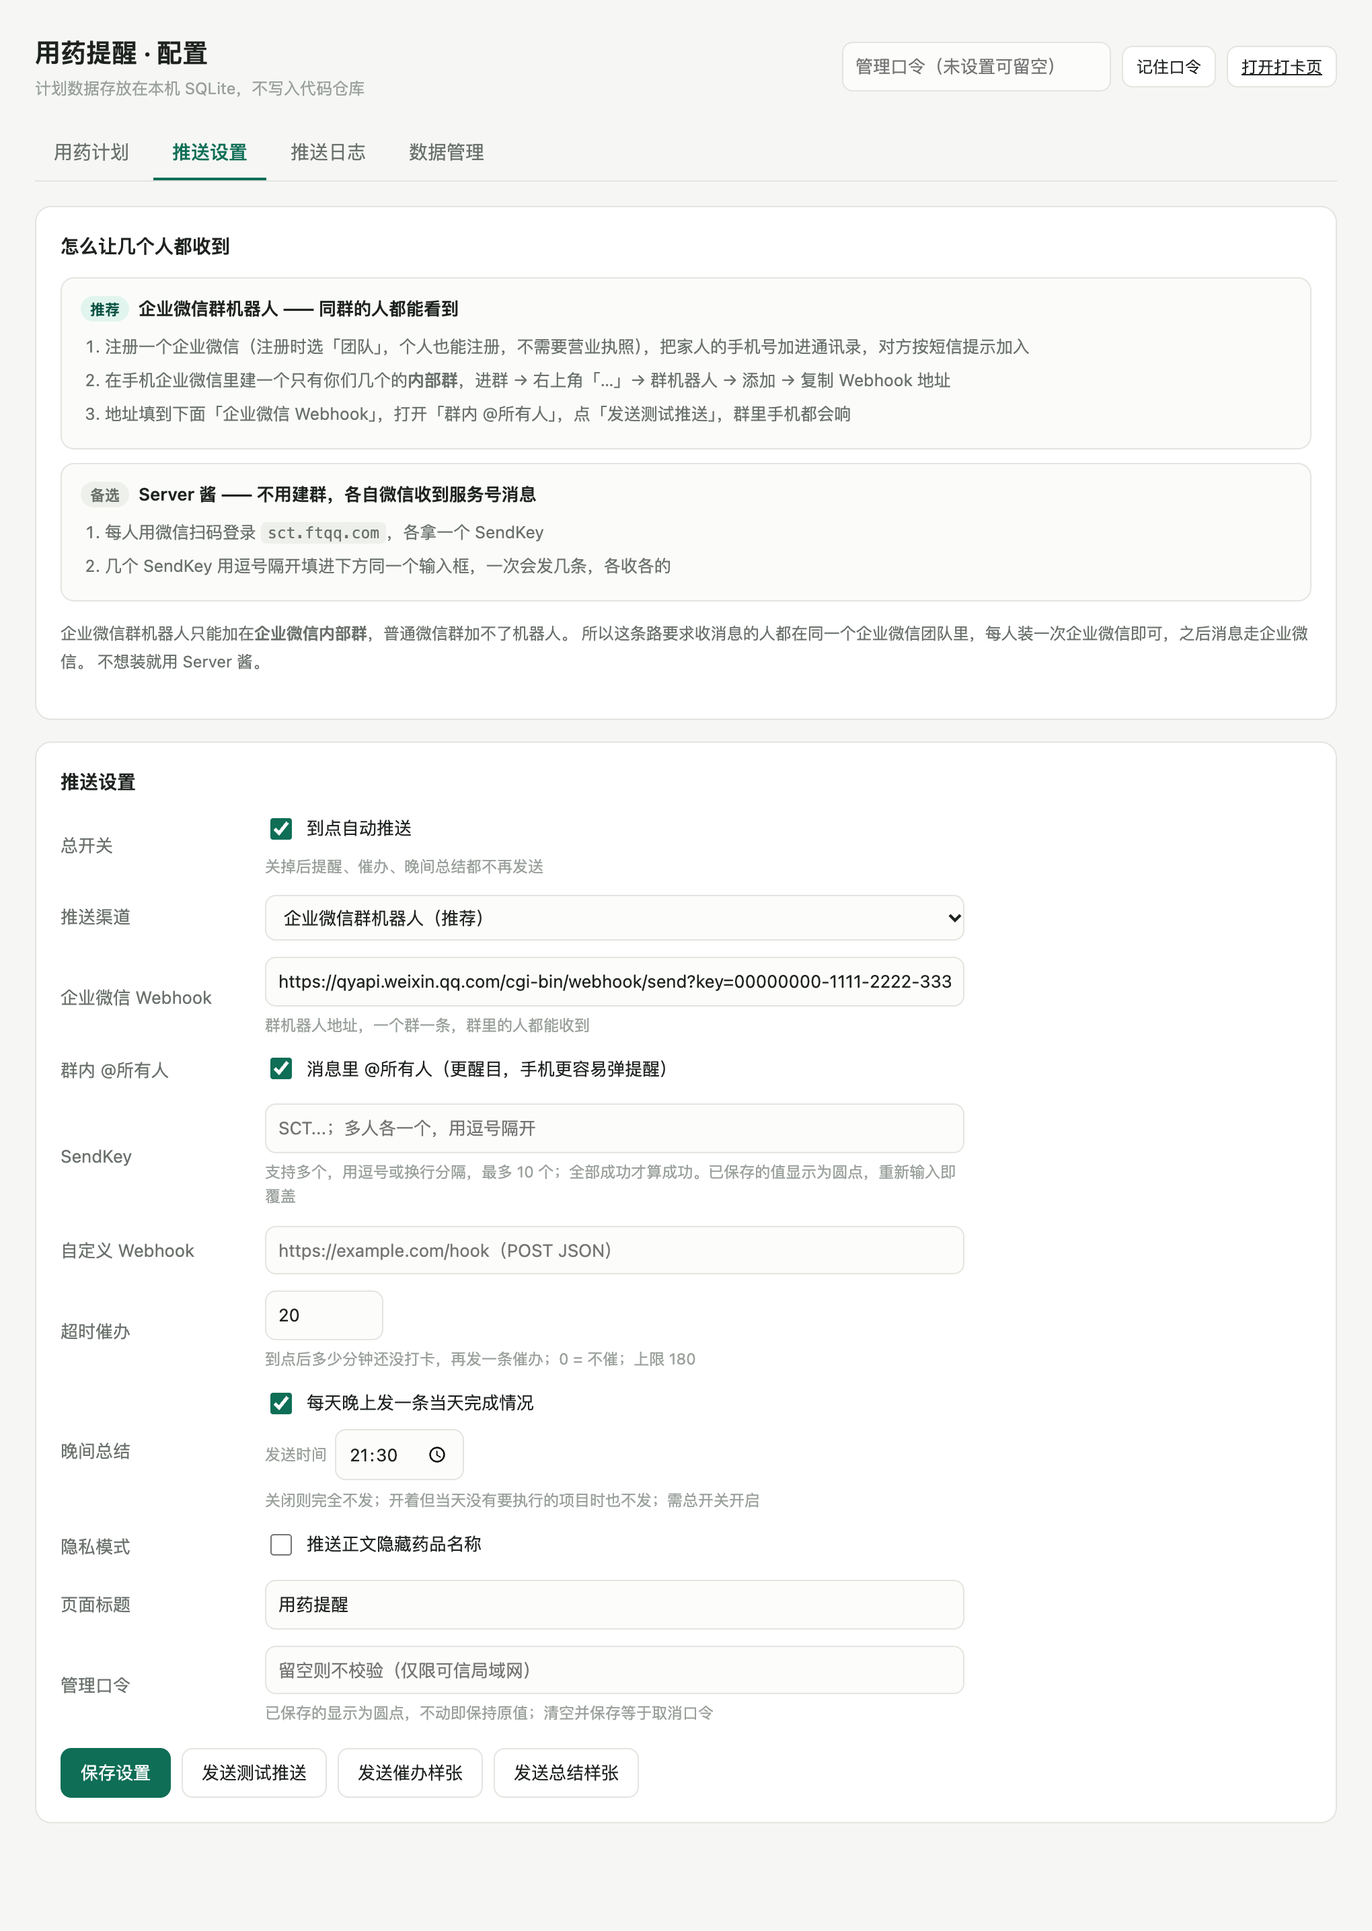
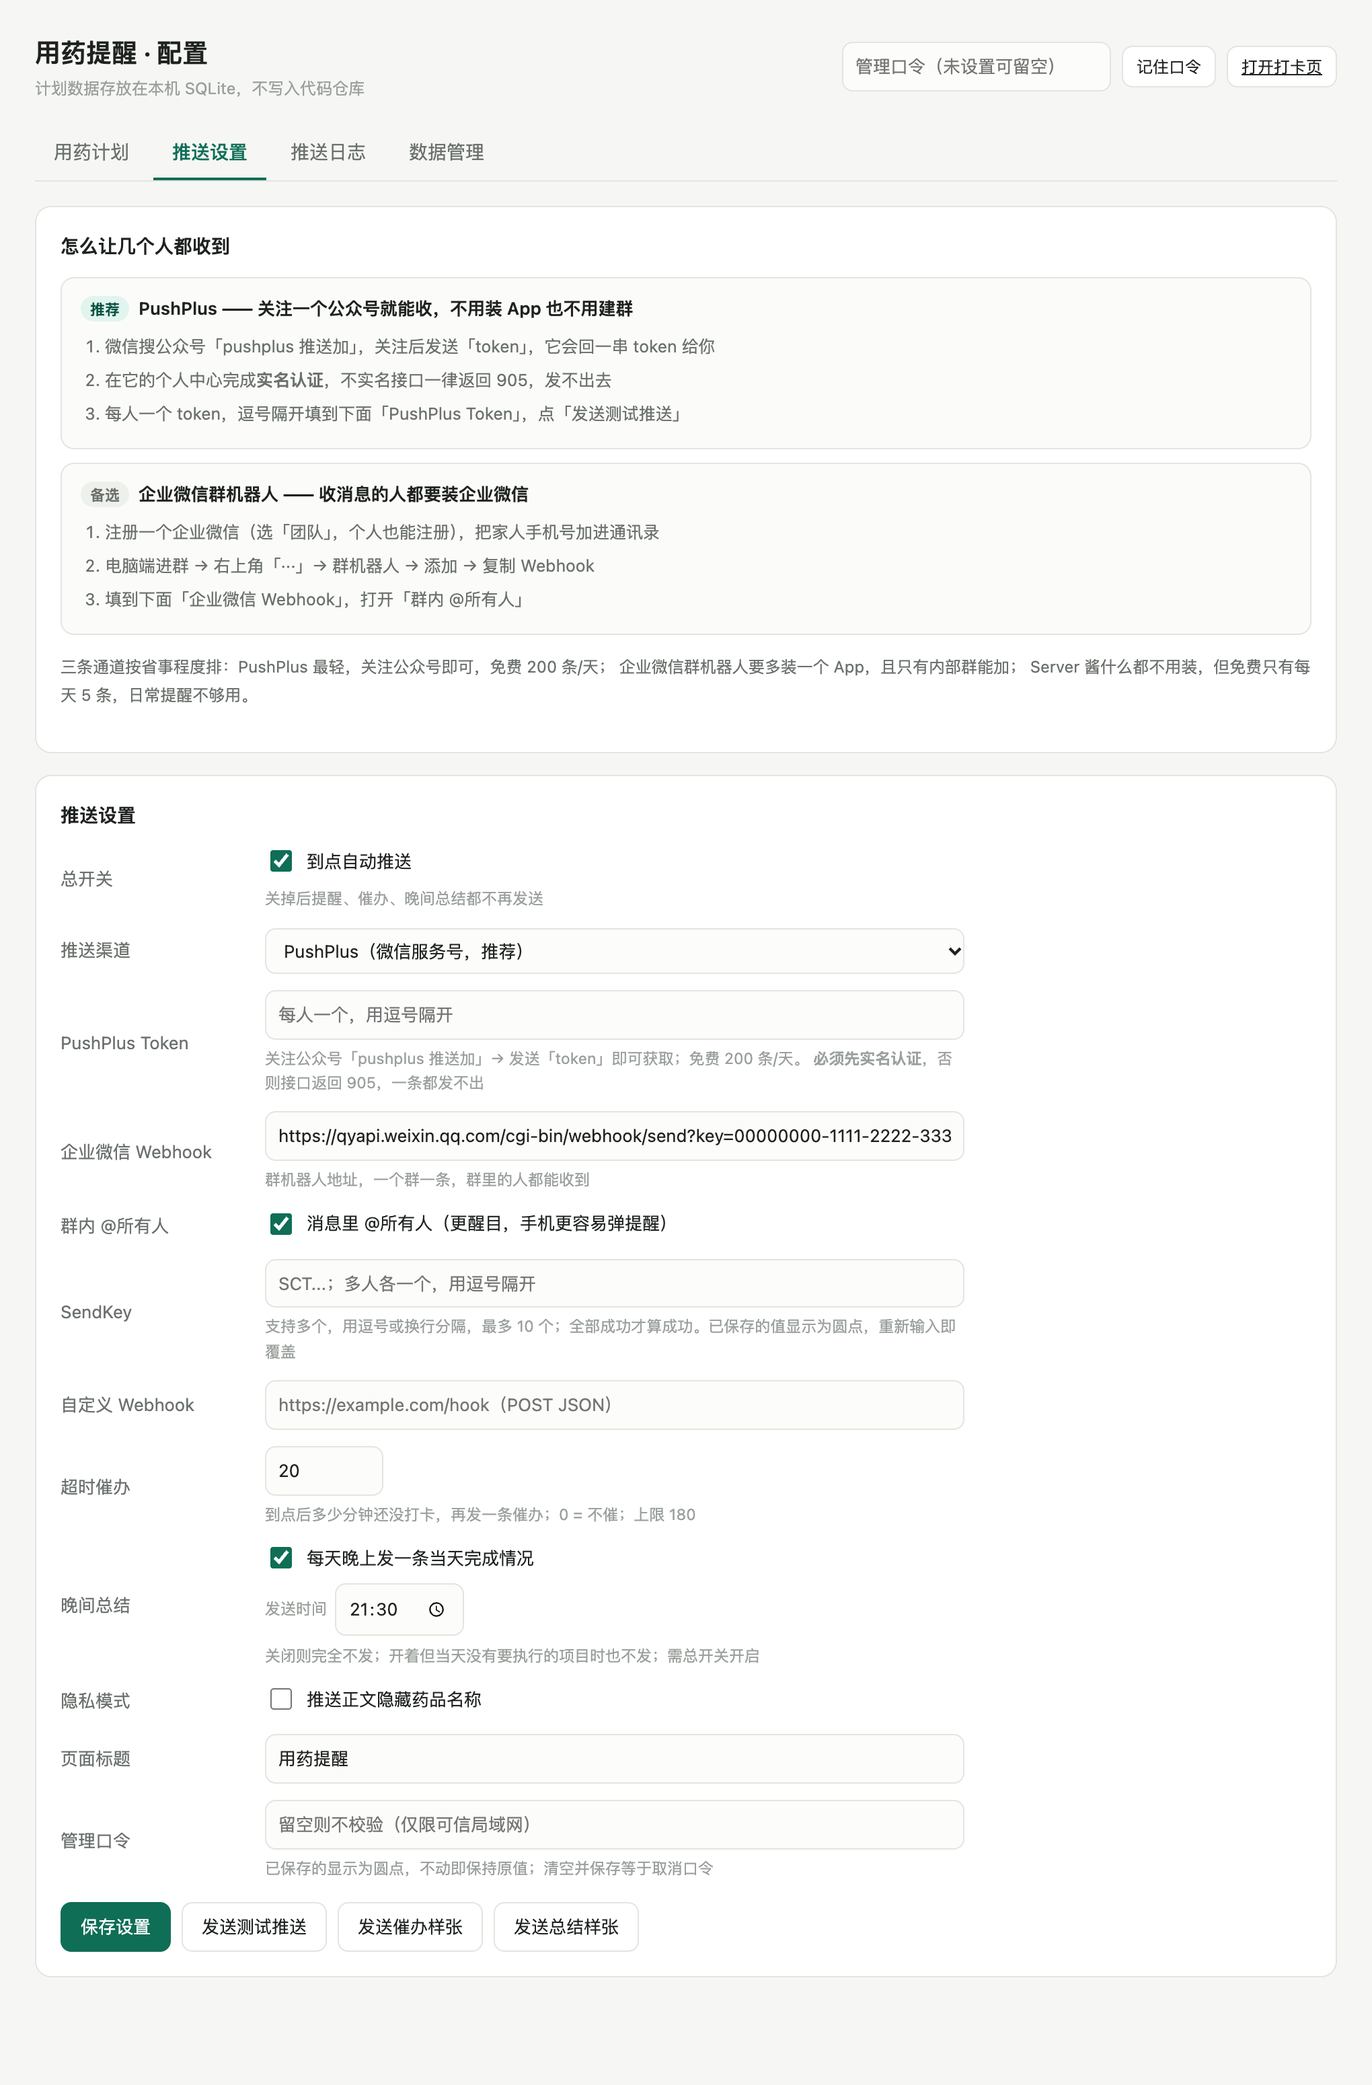
新增 PushPlus 渠道；推送文案去掉打不开的打卡页引导；用药计划改为整表保存

diff --git a/app/public/admin.html b/app/public/admin.html
@@ -34,12 +34,13 @@
       <p class="hint">
         一行对应一个时间点。时间格式 24 小时制 HH:MM；「星期」按钮点亮表示该天执行，全亮即每天。
         「启用」管是否执行与计分，「推送」管这条是否发微信——两项互不影响，勾掉推送后仍可在打卡页手动勾选。
-        修改后点该行的「保存」生效。
+        改完点表格右上方的「保存全部」一次提交。
       </p>
       <div style="display:flex;gap:8px;margin-bottom:12px;flex-wrap:wrap">
         <button class="btn btn-primary btn-sm" id="addRow">+ 新增一行</button>
         <button class="btn btn-sm" id="refreshPlans">刷新</button>
         <span style="flex:1"></span>
+        <button class="btn btn-primary btn-sm" id="saveAll">保存全部</button>
         <span class="badge" id="planCount">0 行</span>
       </div>
       <div class="table-scroll">
@@ -54,7 +55,7 @@
               <th style="width:160px">星期</th>
               <th style="width:44px">启用</th>
               <th style="width:44px" title="取消勾选后该条不发微信，只能手动来打卡">推送</th>
-              <th style="width:100px">操作</th>
+              <th style="width:72px">操作</th>
             </tr>
           </thead>
           <tbody id="planBody"></tbody>
@@ -69,25 +70,26 @@
       <h2>怎么让几个人都收到</h2>
       <div class="guide">
         <div class="guide-item">
-          <div class="guide-h"><span class="badge ok">推荐</span> 企业微信群机器人 —— 同群的人都能看到</div>
+          <div class="guide-h"><span class="badge ok">推荐</span> PushPlus —— 关注一个公众号就能收，不用装 App 也不用建群</div>
           <ol class="guide-ol">
-            <li>注册一个企业微信（注册时选「团队」，个人也能注册，不需要营业执照），把家人的手机号加进通讯录，对方按短信提示加入</li>
-            <li>在手机企业微信里建一个只有你们几个的<strong>内部群</strong>，进群 → 右上角「…」→ 群机器人 → 添加 → 复制 Webhook 地址</li>
-            <li>地址填到下面「企业微信 Webhook」，打开「群内 @所有人」，点「发送测试推送」，群里手机都会响</li>
+            <li>微信搜公众号「pushplus 推送加」，关注后发送「token」，它会回一串 token 给你</li>
+            <li>在它的个人中心完成<strong>实名认证</strong>，不实名接口一律返回 905，发不出去</li>
+            <li>每人一个 token，逗号隔开填到下面「PushPlus Token」，点「发送测试推送」</li>
           </ol>
         </div>
         <div class="guide-item">
-          <div class="guide-h"><span class="badge">备选</span> Server 酱 —— 不用建群，各自微信收到服务号消息</div>
+          <div class="guide-h"><span class="badge">备选</span> 企业微信群机器人 —— 收消息的人都要装企业微信</div>
           <ol class="guide-ol">
-            <li>每人用微信扫码登录 <code>sct.ftqq.com</code>，各拿一个 SendKey</li>
-            <li>几个 SendKey 用逗号隔开填进下方同一个输入框，一次会发几条，各收各的</li>
+            <li>注册一个企业微信（选「团队」，个人也能注册），把家人手机号加进通讯录</li>
+            <li>电脑端进群 → 右上角「···」→ 群机器人 → 添加 → 复制 Webhook</li>
+            <li>填到下面「企业微信 Webhook」，打开「群内 @所有人」</li>
           </ol>
         </div>
       </div>
       <p class="hint" style="margin-top:14px">
-        企业微信群机器人只能加在<strong>企业微信内部群</strong>，普通微信群加不了机器人。
-        所以这条路要求收消息的人都在同一个企业微信团队里，每人装一次企业微信即可，之后消息走企业微信。
-        不想装就用 Server 酱。
+        三条通道按省事程度排：PushPlus 最轻，关注公众号即可，免费 200 条/天；
+        企业微信群机器人要多装一个 App，且只有内部群能加；
+        Server 酱什么都不用装，但免费只有每天 5 条，日常提醒不够用。
       </p>
     </div>
 
@@ -104,10 +106,21 @@
         <label>推送渠道</label>
         <div class="wide">
           <select id="push_channel">
-            <option value="wecom">企业微信群机器人（推荐）</option>
+            <option value="pushplus">PushPlus（微信服务号，推荐）</option>
+            <option value="wecom">企业微信群机器人</option>
             <option value="serverchan">Server 酱（微信）</option>
             <option value="custom">自定义 Webhook</option>
           </select>
+        </div>
+      </div>
+      <div class="form-row">
+        <label>PushPlus Token</label>
+        <div class="wide">
+          <input type="password" id="pushplus_token" placeholder="每人一个，用逗号隔开" />
+          <div class="field-note">
+            关注公众号「pushplus 推送加」→ 发送「token」即可获取；免费 200 条/天。
+            <strong>必须先实名认证</strong>，否则接口返回 905，一条都发不出
+          </div>
         </div>
       </div>
       <div class="form-row">
@@ -332,11 +345,12 @@ function renderPlans() {
   if (!rows.length) {
     body.innerHTML = '<tr><td colspan="9" style="color:#9aa09b;padding:24px 6px;text-align:center">还没有计划，点「+ 新增一行」开始</td></tr>';
     $('planCount').textContent = '0 行';
+    updateSaveBtn();
     return;
   }
   $('planCount').textContent = rows.length + ' 行';
 
-  rows.forEach((row, idx) => {
+  rows.forEach((row) => {
     const tr = document.createElement('tr');
     if (!row.enabled) tr.className = 'off';
     tr.innerHTML = `
@@ -350,7 +364,6 @@ function renderPlans() {
       <td style="text-align:center"><input type="checkbox" data-f="push_on" ${row.push_on ? 'checked' : ''} style="width:16px;height:16px;accent-color:#0f6e56" /></td>
       <td>
         <div class="row-actions">
-          <button class="btn btn-sm" data-act="save">保存</button>
           <button class="btn btn-sm btn-danger" data-act="del">删除</button>
         </div>
       </td>`;
@@ -361,41 +374,28 @@ function renderPlans() {
       const bit = 1 << Number(btn.dataset.bit);
       row.weekdays = row.weekdays & bit ? row.weekdays & ~bit : row.weekdays | bit;
       btn.classList.toggle('on', !!(row.weekdays & bit));
+      markDirty(row);
     });
 
     const inputs = tr.querySelectorAll('[data-f]');
     inputs.forEach((inp) => {
       const ev = inp.type === 'checkbox' ? 'change' : 'input';
-      inp.addEventListener(ev, async () => {
+      inp.addEventListener(ev, () => {
         const f = inp.dataset.f;
         if (f === 'enabled' || f === 'push_on') {
           row[f] = inp.checked ? 1 : 0;
           if (f === 'enabled') tr.classList.toggle('off', !row.enabled);
-          if (!row.id) return;
-          try {
-            await api('/api/plans/' + row.id + '/' + (f === 'enabled' ? 'enabled' : 'push'), {
-              method: 'PATCH',
-              body: JSON.stringify(f === 'enabled' ? { enabled: !!row[f] } : { push_on: !!row[f] })
-            });
-            if (f === 'push_on') {
-              showMsg('planMsg', row.push_on ? '已开启推送' : '已关闭推送（该条不再发微信）', true);
-            }
-          } catch (e) {
-            row[f] = row[f] ? 0 : 1;
-            inp.checked = !!row[f];
-            if (f === 'enabled') tr.classList.toggle('off', !row.enabled);
-            showMsg('planMsg', e.message, false);
-          }
         } else {
           row[f] = inp.value;
         }
+        markDirty(row);
       });
     });
 
-    tr.querySelector('[data-act="save"]').addEventListener('click', () => saveRow(row, idx));
     tr.querySelector('[data-act="del"]').addEventListener('click', () => deleteRow(row));
     body.appendChild(tr);
   });
+  updateSaveBtn();
 }
 
 async function loadPlans() {
@@ -413,37 +413,79 @@ async function loadPlans() {
   }
 }
 
-async function saveRow(row, idx) {
-  if (!row.time) return showMsg('planMsg', '请先填写时间（HH:MM）', false);
-  if (!row.name || !row.name.trim()) return showMsg('planMsg', '请填写药品或项目名称', false);
-  if (!row.weekdays) return showMsg('planMsg', '请至少点亮一个星期', false);
-  const payload = {
-    time: row.time,
-    name: row.name,
-    dose: row.dose,
-    method: row.method,
-    note: row.note,
-    weekdays: row.weekdays,
-    push_on: row.push_on ? 1 : 0,
-    enabled: row.enabled ? 1 : 0
-  };
-  try {
-    if (row.id) {
-      await api('/api/plans/' + row.id, { method: 'PUT', body: JSON.stringify(payload) });
-      showMsg('planMsg', `已保存：${payload.time} ${payload.name}`, true);
-    } else {
-      const data = await api('/api/plans', { method: 'POST', body: JSON.stringify(payload) });
-      rows[idx] = {
-        ...data.item,
-        enabled: data.item.enabled ? 1 : 0,
-        push_on: data.item.push_on ? 1 : 0,
-        weekdays: Number(data.item.weekdays) || 127
-      };
-      showMsg('planMsg', `已新增：${payload.time} ${payload.name}`, true);
+/* ---------- 统一保存 ---------- */
+
+const isBlankNew = (r) => !r.id && !String(r.time || '').trim() && !String(r.name || '').trim();
+const pendingRows = () => rows.filter((r) => (r.__dirty || !r.id) && !isBlankNew(r));
+
+function markDirty(row) {
+  row.__dirty = true;
+  updateSaveBtn();
+  $('planMsg').className = 'result';
+}
+
+function updateSaveBtn() {
+  const n = pendingRows().length;
+  $('saveAll').textContent = n ? `保存全部 · ${n} 项待保存` : '保存全部';
+}
+
+async function saveAllPlans() {
+  // 点了「新增一行」又什么都没填的，直接丢掉，不当错误报
+  const blanks = rows.filter(isBlankNew);
+  if (blanks.length) {
+    rows = rows.filter((r) => !isBlankNew(r));
+    renderPlans();
+  }
+
+  const targets = rows.filter((r) => r.__dirty || !r.id);
+  if (!targets.length) {
+    return showMsg('planMsg', blanks.length ? '已丢弃空白行，没有需要保存的改动' : '没有需要保存的改动', true);
+  }
+
+  const bad = [];
+  targets.forEach((r) => {
+    const no = rows.indexOf(r) + 1;
+    if (!r.time) bad.push(`第 ${no} 行：时间未填`);
+    else if (!String(r.name || '').trim()) bad.push(`第 ${no} 行：名称未填`);
+    else if (!r.weekdays) bad.push(`第 ${no} 行：星期至少点亮一个`);
+  });
+  if (bad.length) return showMsg('planMsg', '无法保存：' + bad.join('；'), false);
+
+  const btn = $('saveAll');
+  btn.disabled = true;
+  let saved = 0;
+  const errors = [];
+
+  for (const row of targets) {
+    const payload = {
+      time: row.time,
+      name: row.name,
+      dose: row.dose,
+      method: row.method,
+      note: row.note,
+      weekdays: row.weekdays,
+      push_on: row.push_on ? 1 : 0,
+      enabled: row.enabled ? 1 : 0
+    };
+    try {
+      if (row.id) {
+        await api('/api/plans/' + row.id, { method: 'PUT', body: JSON.stringify(payload) });
+      } else {
+        await api('/api/plans', { method: 'POST', body: JSON.stringify(payload) });
+      }
+      saved++;
+    } catch (e) {
+      errors.push(`${row.time || '新行'} ${row.name || ''}：${e.message}`);
     }
-    await loadPlans();
-  } catch (e) {
-    showMsg('planMsg', e.message, false);
+  }
+
+  btn.disabled = false;
+  await loadPlans();
+
+  if (errors.length) {
+    showMsg('planMsg', `已保存 ${saved} 行，${errors.length} 行失败——${errors.join('；')}`, false);
+  } else {
+    showMsg('planMsg', `已保存 ${saved} 行`, true);
   }
 }
 
@@ -473,6 +515,7 @@ $('addRow').addEventListener('click', () => {
 });
 
 $('refreshPlans').addEventListener('click', loadPlans);
+$('saveAll').addEventListener('click', saveAllPlans);
 
 /* ---------- 推送设置 ---------- */
 
@@ -483,6 +526,7 @@ async function loadSettings() {
     $('push_enabled').checked = s.push_enabled === '1';
     $('push_channel').value = s.push_channel || 'wecom';
     $('serverchan_key').value = s.serverchan_key || '';
+    $('pushplus_token').value = s.pushplus_token || '';
     $('wecom_webhook').value = s.wecom_webhook || '';
     $('wecom_mention_all').checked = s.wecom_mention_all === '1';
     $('custom_webhook').value = s.custom_webhook || '';
@@ -503,6 +547,7 @@ $('saveSettings').addEventListener('click', async () => {
     push_enabled: $('push_enabled').checked ? '1' : '0',
     push_channel: $('push_channel').value,
     serverchan_key: $('serverchan_key').value.trim(),
+    pushplus_token: $('pushplus_token').value.trim(),
     wecom_webhook: $('wecom_webhook').value.trim(),
     wecom_mention_all: $('wecom_mention_all').checked ? '1' : '0',
     custom_webhook: $('custom_webhook').value.trim(),

diff --git a/app/push.js b/app/push.js
@@ -1,6 +1,7 @@
 import { getSettings } from './db.js';
 
 const TIMEOUT_MS = 10000;
+const PUSHPLUS_API = process.env.PUSHPLUS_API || 'https://www.pushplus.plus/send';
 
 async function postForm(url, fields) {
   const body = new URLSearchParams(fields).toString();
@@ -54,7 +55,7 @@ function buildMessage(plan, s, opts) {
         }
       : {
           title: `${title}：该打卡了`,
-          content: `时间 ${plan.time} 有一项待完成。打开打卡页查看详情。`
+          content: `时间 ${plan.time} 有一项待完成。`
         };
   }
 
@@ -93,7 +94,7 @@ function buildSummary(sum, s) {
   if (s.privacy_mode === '1') {
     return {
       title: `${title}：今天还有 ${left.length} 项没打卡`,
-      content: `${head}。\n打开打卡页查看详情。`
+      content: `${head}。`
     };
   }
 
@@ -109,13 +110,27 @@ function buildSummary(sum, s) {
   };
 }
 
-/** Server 酱支持多个 SendKey（各自绑定一个人的微信），用逗号/空格/换行分隔 */
+/** 多凭据拆分：Server 酱的 SendKey、PushPlus 的 token 都用它，逗号/空格/分号分隔 */
 function splitKeys(raw) {
   return String(raw || '')
     .split(/[\s,;，；|]+/)
     .map((k) => k.trim())
     .filter(Boolean)
     .slice(0, 10);
+}
+
+/** 多凭据渠道的成败汇总：单个直报错误码，多个报「2/2 个 Token 成功」 */
+function summarize(label, results) {
+  const failed = results.filter((x) => !x.ok);
+  if (results.length > 1) {
+    return {
+      ok: failed.length === 0,
+      detail: `${results.length - failed.length}/${results.length} 个 ${label} 成功${
+        failed.length ? '；失败：' + failed.map((f) => f.text).join(',') : ''
+      }`
+    };
+  }
+  return { ok: !failed.length, detail: results[0] ? results[0].text : '' };
 }
 
 /** 按渠道把消息真正发出去，提醒与总结共用 */
@@ -137,12 +152,25 @@ async function dispatch(msg, s, meta = {}) {
         const oneOk = r.status === 200 && (!r.json || r.json.code === 0);
         results.push({ ok: oneOk, text: r.json ? `code=${r.json.code}` : `HTTP ${r.status}` });
       }
-      const failed = results.filter((x) => !x.ok);
-      ok = failed.length === 0;
-      detail =
-        keys.length > 1
-          ? `${keys.length - failed.length}/${keys.length} 个 SendKey 成功${failed.length ? '；失败：' + failed.map((f) => f.text).join(',') : ''}`
-          : results[0] && results[0].text;
+      ({ ok, detail } = summarize('SendKey', results));
+    } else if (channel === 'pushplus') {
+      const tokens = splitKeys(s.pushplus_token);
+      if (!tokens.length) throw new Error('未配置 PushPlus Token');
+      const results = [];
+      for (const tk of tokens) {
+        const r = await postJson(PUSHPLUS_API, {
+          token: tk,
+          title: msg.title,
+          content: msg.content,
+          template: 'txt'
+        });
+        const code = r.json ? r.json.code : null;
+        results.push({
+          ok: r.status === 200 && code === 200,
+          text: code === 905 ? '未实名认证(905)' : r.json ? `code=${code}` : `HTTP ${r.status}`
+        });
+      }
+      ({ ok, detail } = summarize('Token', results));
     } else if (channel === 'wecom') {
       const hook = (s.wecom_webhook || '').trim();
       if (!hook) throw new Error('未配置企业微信 Webhook');

diff --git a/app/server.js b/app/server.js
@@ -142,7 +142,7 @@ function adminToken() {
 
 /* 凭据类设置只在写接口接收，读接口一律返回掩码，避免明文回显到浏览器 */
 const MASK = '••••••••';
-const SECRET_KEYS = ['serverchan_key', 'admin_token'];
+const SECRET_KEYS = ['serverchan_key', 'pushplus_token', 'admin_token'];
 
 function maskSecrets(s) {
   const out = { ...s };
@@ -292,6 +292,7 @@ async function handleApi(req, res, url) {
       'push_enabled',
       'push_channel',
       'serverchan_key',
+      'pushplus_token',
       'wecom_webhook',
       'wecom_mention_all',
       'custom_webhook',

diff --git a/app/db.js b/app/db.js
@@ -153,6 +153,7 @@ const DEFAULT_SETTINGS = {
   push_enabled: '0',
   push_channel: 'serverchan',
   serverchan_key: '',
+  pushplus_token: '',
   wecom_webhook: '',
   wecom_mention_all: '1',
   custom_webhook: '',
